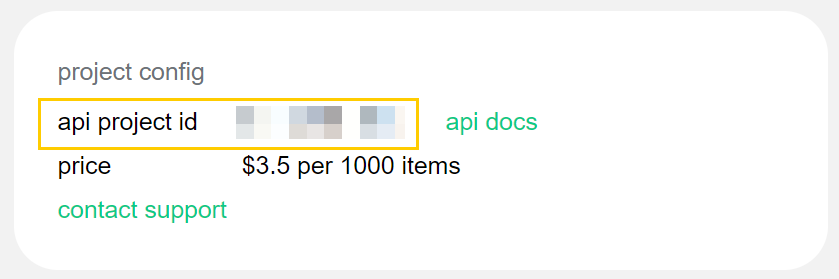
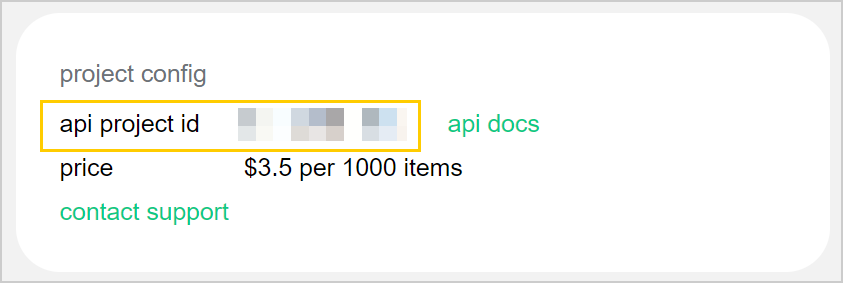
Fixes
Fixes after review.

diff --git a/i18n/ru/docusaurus-plugin-content-docs/current/personal-account.md b/i18n/ru/docusaurus-plugin-content-docs/current/personal-account.md
@@ -2,9 +2,9 @@
 
 В личном кабинете вы можете:
 
-- отправить запрос на создание нового проекта;
+- отправить запрос на [создание нового проекта](#new_project);
 
-- посмотреть общую статистику по всем проектам и по каждому отдельно.
+- посмотреть общую [статистику](#statistics) по всем проектам и по каждому отдельно.
 
 ## Вход в личный кабинет {#entrance}
 
@@ -14,40 +14,23 @@
 
 3. Нажмите кнопку **Continue**.
 
-## Статистика {#statistics}
+## Восстановление пароля {#recover}
 
-В блоке **Summury** отображается общая статистика по вашим текущим проектам за последние 30 дней:
+Если вы забыли пароль для входа:
 
-- **moderated** — количество обработанных элементов разметки;
+1. Нажмите **Forgot password**.
 
-- **spent** — затраченные средства.
+  <img src={require('./assets/forgot-password.png').default} alt="Восстановление пароля" width="400"/>
 
-В блоке **Projects** можно посмотреть статистику отдельно по каждому проекту:
+2. В открывшемся окне введите адрес электронной почты, который вы давали при регистрации.
 
-- **today** — количество обработанных элементов разметки за текущий день;
+3. Нажмите кнопку **Continue**.
 
-- **month** — количество обработанных элементов разметки за текущий месяц;
-
-- **spendig** — прогнозируемые затраты за текущий месяц (прогноз строится из расчета данных за последние 30 дней).
-
-Чтобы увидеть более подробную информацию по проекту, нажмите на его карточку. Помимо этого на странице детализации, вы можете:
-
-- Справа вверху в блоке **project config** узнать ID проекта, необходимый [для подключения API](https://toloka.ai/ru/docs/toloka-apps/api/concepts/streaming-items).
-
-  <img src={require('./assets/api-project-id.png').default} alt="ID проекта" width="600"/>
-
-- Посмотреть графики:
-
-	- **Moderated items by time** — количество размеченных элементов по дням;
-
-	- **Latancy** — медианное время разметки одного элемента по дням;
-
-	- **Quality** — качество разметки по дням.
-
+4. Мы вышлем вам инструкции по замене пароля.
 
 ## Создание нового проекта {#new_project}
 
-1. Войдите в личный кабинет.
+1. Войдите в [личный кабинет](https://my.membrace.ai/).
 
 2. Нажмите **New Project**.
 
@@ -63,16 +46,34 @@
 
 4. С вами свяжется наш сотрудник, чтобы обсудить детали и подобрать подходящее решение для вашей задачи.
 
-## Восстановление пароля {#recover}
+## Статистика {#statistics}
 
-Если вы забыли пароль для входа:
+В блоке **Summury** отображается общая статистика по вашим текущим проектам за последние 30 дней:
 
-1. Нажмите **Forgot password**.
+- **moderated** — количество обработанных элементов разметки;
 
-  <img src={require('./assets/forgot-password.png').default} alt="Восстановление пароля" width="600"/>
+- **spent** — затраченные средства.
 
-2. В открывшемся окне введите адрес электронной почты, который вы давали при регистрации.
+В блоке **Projects** на карточках проекта можно увидеть сводную статистику по каждому проекту:
 
-3. Нажмите кнопку **Continue**.
+- **today** — количество обработанных элементов разметки за текущий день;
 
-4. Мы вышлем вам инструкции по замене пароля.
+- **month** — количество обработанных элементов разметки за текущий месяц;
+
+- **spendig** — прогнозируемые затраты за текущий месяц (прогноз строится из расчета данных за последние 30 дней).
+
+Чтобы посмотреть более подробную информацию по проекту, нажмите на его карточку. На странице проекта, вы можете:
+
+- Справа вверху в блоке **project config** узнать ID проекта, необходимый [для подключения API](https://toloka.ai/ru/docs/toloka-apps/api/concepts/streaming-items).
+
+  <img src={require('./assets/api-project-id.png').default} alt="ID проекта" width="500"/>
+
+- Изучить расширенную статистику в виде графиков:
+
+	- **Moderated items by time** — количество размеченных элементов по дням;
+
+	- **Latancy** — медианное время разметки одного элемента по дням;
+
+	- **Quality** — качество разметки по дням.
+
+

diff --git a/i18n/ru/docusaurus-plugin-content-docs/current/faq.md b/i18n/ru/docusaurus-plugin-content-docs/current/faq.md
@@ -6,14 +6,25 @@ import TabItem from '@theme/TabItem';
 <details><summary>Как узнать расходы по проекту?</summary>
 
 <Tabs>
-  <TabItem value="ui" label="В веб-интерфейсе">
+  <TabItem value="pa" label="В личном кабинете">
 
-В кабинете заказчика на вкладке **Профиль** → **Затраты** выберите дату, за которую вы хотите посмотреть расходы, и необходимый проект.
+В [личном кабинете](https://my.membrace.ai/) в блоке **Summary** отображаются затраченные средства по вашим текущим проектам за последние 30 дней.
+
+  <img src={require('./assets/spent-all.png').default} alt="Общие затраты" width="500"/>
+
+Чтобы посмотреть затраты по конкретному проекту, нажмите на его карточку. Вверху на странице проекта вы сможете узнать затраты за текущий день и за последние 30 дней.
+
+  <img src={require('./assets/spent-project.png').default} alt="Общие затраты" width="500"/>
 
   </TabItem>
   <TabItem value="api" label="Через API">
 
 Чтобы получить стоимость `cost`, умножьте цену элемента `item_price` на количество размеченных элементов `item_count`.
+
+  </TabItem>
+  <TabItem value="ui" label="В веб-интерфейсе">
+
+В кабинете заказчика на вкладке **Профиль** → **Затраты** выберите дату, за которую вы хотите посмотреть расходы, и необходимый проект.
 
   </TabItem>
 </Tabs>
@@ -23,10 +34,32 @@ import TabItem from '@theme/TabItem';
 
 <details><summary>Как узнать цену разметки одного элемента?</summary>
 
+<Tabs>
+  <TabItem value="pa_item" label="В личном кабинете">
+
+В [личном кабинете](https://my.membrace.ai/) нажмите на карточку проекта. На странице проекта справа вверху в блоке **project config** можно узнать цену разметки 1000 элементов.
+
+  </TabItem>
+  <TabItem value="api_item" label="Через API">
+
 Через API запроситe [информацию о проекте](https://toloka.ai/docs/toloka-apps/api/ref/app-project/app-projects_app_project_id_get.html) атрибут `item_price` — цена разметки одного элемента.
+
+  </TabItem>
+</Tabs>
 
 </details>
 
+<details><summary>Как узнать сколько объектов размечено?</summary>
+
+В [личном кабинете](https://my.membrace.ai/) в блоке **Summary** отображаются сколько всего размечено объектов по всем вашим текущим проектам за последние 30 дней.
+
+  <img src={require('./assets/moderated-all.png').default} alt="Всего размечено" width="500"/>
+
+Чтобы посмотреть количество размеченных объетов по конкретному проекту, нажмите на его карточку. Вверху на странице проекта вы сможете узнать информацию о количестве размеченных объектов за текущий день и за последние 30 дней.
+
+  <img src={require('./assets/moderated-project.png').default} alt="Общие затраты" width="500"/>
+
+</details>
 
 <details><summary>Как посмотреть описание проекта?</summary>
 

diff --git a/i18n/ru/docusaurus-plugin-content-docs/current/commissioning.md b/i18n/ru/docusaurus-plugin-content-docs/current/commissioning.md
@@ -44,15 +44,13 @@
 
       <img src={require('./assets/profile.png').default} alt="Перейдите в свой профиль" width="630"/>
 
-   1. Для быстрого старта воспользуйтесь промокодом:
+   1. Если у вас есть промокод воспользуйтесь им:
 
 	   1. Нажмите кнопку **Enter promo code**.
 
 	      <img src={require('./assets/enter-promo-code.png').default} alt="Нажмите кнопку для ввода промокода" width="307"/>
 
-	   1. Введите `TOLOKAKIT1` — после активации ваш баланс будет пополнен.
-
-		   <img src={require('./assets/promocode.png').default} alt="Введите и активируйте промокод" width="206"/>
+	   1. В открывшемся окне введите промокод и нажмите кнопку **Activate**. После активации ваш баланс будет пополнен.
 
 :::info информация
 
